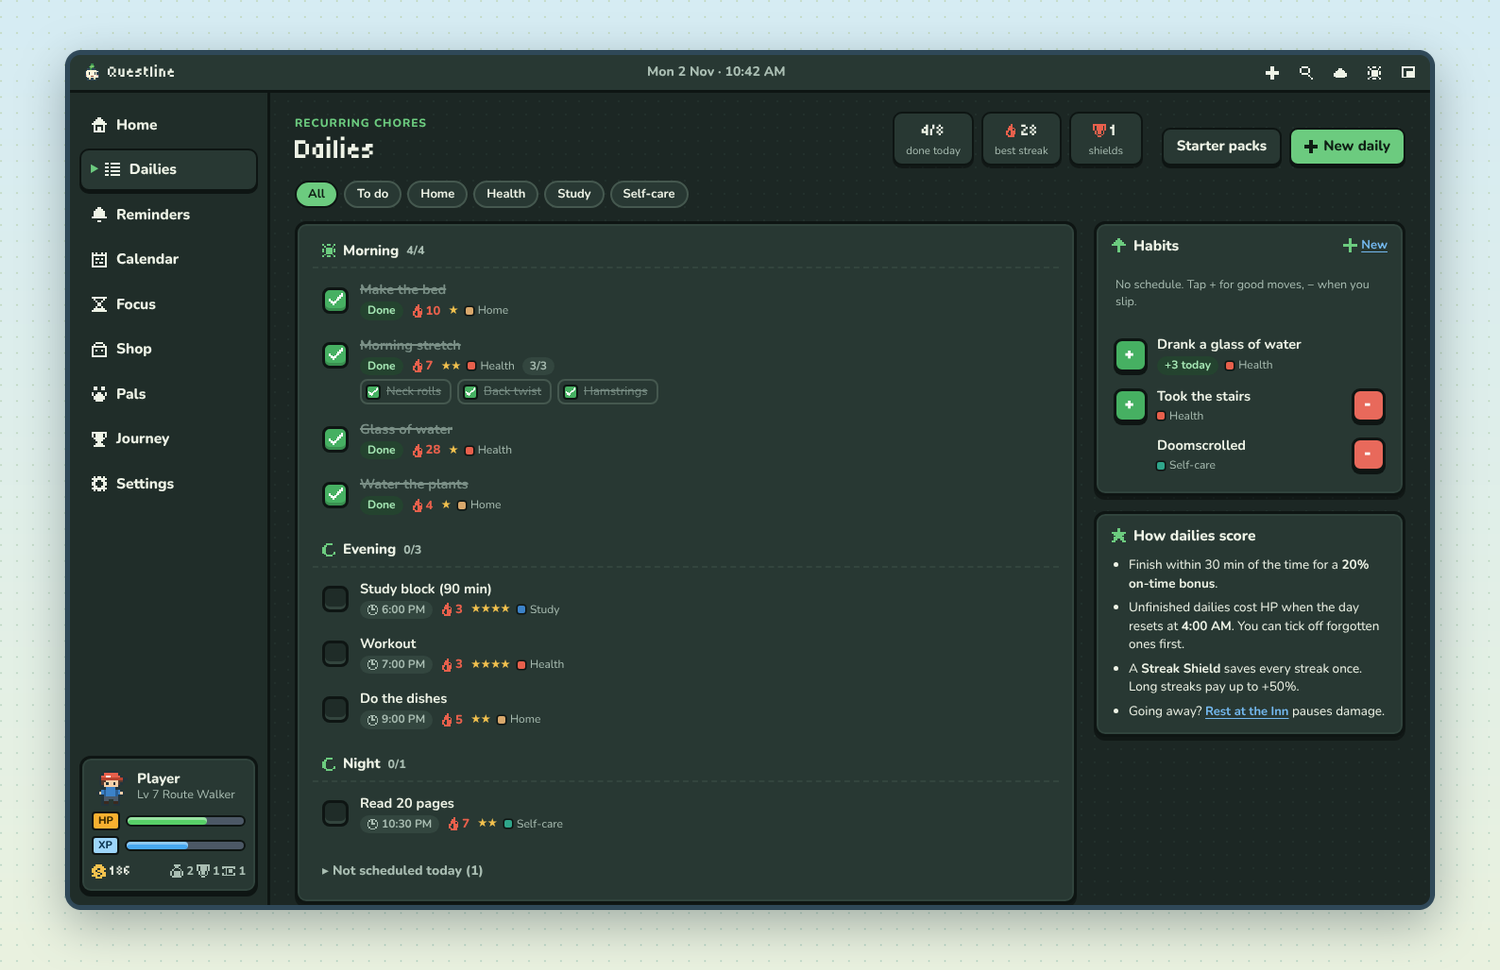
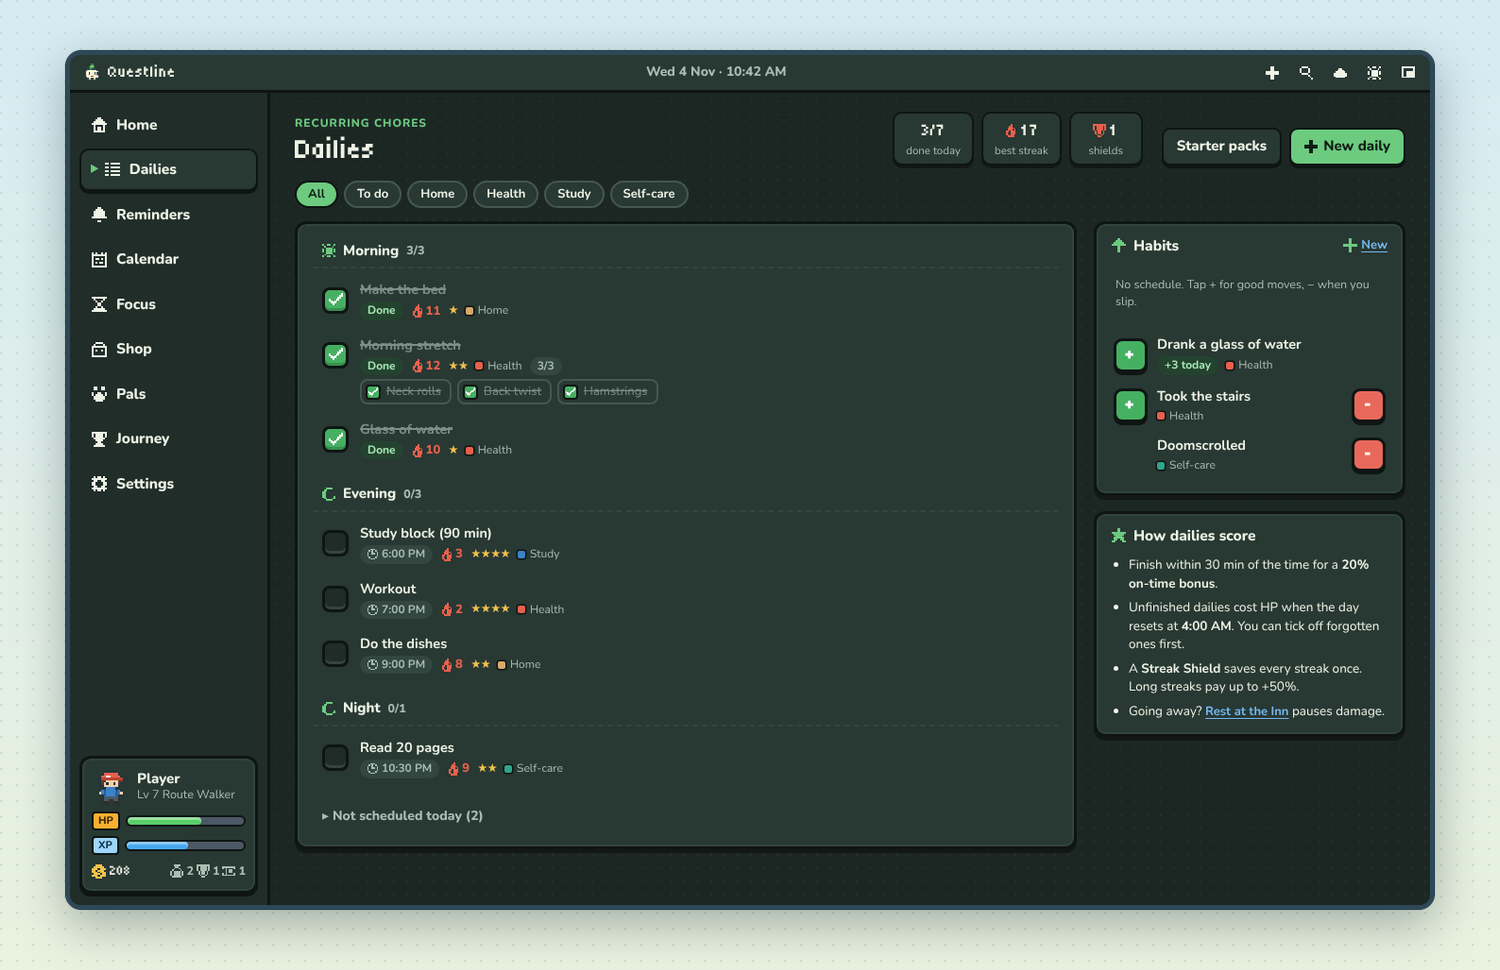
Refresh README and screenshots; fix phone update check
Fixes:
- Checking for updates on Android works again, and errors explain what went wrong
- If a phone can't download an update in the app, it offers to download it in the browser
- Weekly review bars line up when a daily has an Adjust button
- The activity grid on Journey fits on phone screens
- The expedition card on phones no longer squeezes its text

diff --git a/src/js/onboarding.js b/src/js/onboarding.js
@@ -180,7 +180,9 @@ Q.onboarding = (() => {
     st.stats = { str: 420, int: 690, end: 520, cha: 160, spi: 240 };
     st.inventory = { potion: 2, maxpotion: 0, shield: 1, charm: 1, ticket: 1 };
     st.owned = { skins: ['meadow', 'ember'], scenes: ['meadow', 'rain', 'night'], outfits: ['classic', 'meadow'] };
-    st.counters = { completions: 214, remindersDone: 23, focusSessions: 12, focusMinutes: 395, perfectDays: 6, bossesDefeated: 2, faints: 0, drops: 31, maxStreak: 19, earlyBird: 9, rewardsBought: 3 };
+    st.counters = { completions: 214, remindersDone: 23, focusSessions: 12, focusMinutes: 395, perfectDays: 6, bossesDefeated: 3, dailyBossesDefeated: 14, bountyBoards: 9, expeditions: 3, perfectWeeks: 1, faints: 0, drops: 31, maxStreak: 19, earlyBird: 9, rewardsBought: 3 };
+    st.upgrades = { satchel: 2, purse: 1, vitality: 1 };
+    st.expedition = { id: 'boolet', trip: 'mid', need: 50, progress: 32, start: Date.now() - 26 * 3600000 };
     st.settings.calShowReminders = true;
 
     const add = (it, streak, rate) => {
@@ -202,7 +204,8 @@ Q.onboarding = (() => {
         tot++;
         if (rand() < d._rate || n > -6) { d.done[ds] = { xp: 12, gold: 5, stat: 'end' }; dn++; d.streak++; d.best = Math.max(d.best, d.streak); } else d.streak = 0;
       }
-      st.dayLog[ds] = { d: dn, t: tot, f: rand() < 0.35 ? Math.round(25 + rand() * 60) : 0 };
+      const f = rand() < 0.45 ? Math.round(25 + rand() * 60) : 0;
+      st.dayLog[ds] = { d: dn, t: tot, f, fs: f ? 1 + Math.floor(f / 45) : 0, r: Math.floor(rand() * 3), x: dn * 13 + f, b: Math.min(3, Math.floor(rand() * 4)) };
     }
     // Today: the morning is done.
     const today = ymd(0);
@@ -226,10 +229,11 @@ Q.onboarding = (() => {
       R('Order a new notebook', at(0, '08:00'), { done: true, doneAt: Date.now() - 2 * 3600000 }),
     ];
     st.events = [
+      { id: U.uid(), title: 'Coffee with Sam', start: at(0, '16:30'), end: at(0, '17:15'), allDay: false, location: 'Bean Counter Café', notes: '', color: '#C9702E', repeat: 'none' },
       { id: U.uid(), title: 'Robotics club meetup', start: at(nextDow(4), '16:00'), end: at(nextDow(4), '17:30'), allDay: false, location: 'Lab 3', notes: '', color: '#2FA58A', repeat: 'none' },
       { id: U.uid(), title: 'Movie night', start: at(nextDow(6), '20:00'), end: at(nextDow(6), '22:30'), allDay: false, location: '', notes: '', color: '#E879A8', repeat: 'none' },
       { id: U.uid(), title: 'Dentist', start: at(10, '11:00'), end: at(10, '11:30'), allDay: false, location: '', notes: '', color: '#F29A4E', repeat: 'none' },
-      { id: U.uid(), title: 'Cousin\'s birthday', start: U.addDays(todayD, 13).getTime(), end: U.addDays(todayD, 14).getTime(), allDay: true, location: '', notes: '', color: '#8E6BD1', repeat: 'none' },
+      { id: U.uid(), title: 'Maya\'s birthday', start: U.addDays(todayD, 13).getTime(), end: U.addDays(todayD, 14).getTime(), allDay: true, location: '', notes: '', color: '#8E6BD1', repeat: 'none' },
     ];
     const g = [];
     for (let n = -14; n < 40; n++) {
@@ -249,11 +253,21 @@ Q.onboarding = (() => {
       { t: Date.now() - 3 * 3600000, text: 'Morning stretch', kind: 'daily', xp: 15, gold: 5 },
       { t: Date.now() - 3.2 * 3600000, text: 'Make the bed', kind: 'daily', xp: 7, gold: 2 },
       { t: Date.now() - 20 * 3600000, text: 'Focused for 50 min on Study block (90 min)', kind: 'focus', xp: 44, gold: 13 },
-      { t: Date.now() - 26 * 3600000, text: 'Defeated Snooze Slime! +80 gold and a Streak Shield', kind: 'boss' },
+      { t: Date.now() - 26 * 3600000, text: 'Beat today\'s foe, Wild Fluffle! +29 gold', kind: 'boss' },
+      { t: Date.now() - 4 * 86400000, text: 'Defeated Snooze Slime! +80 gold and a Streak Shield', kind: 'boss' },
+      { t: Date.now() - 18 * 86400000, text: 'Defeated Dust Bunny King! +70 gold, a Potion and a Capsule Ticket', kind: 'boss' },
+      { t: Date.now() - 25 * 86400000, text: 'Inbox Kraken slipped away at the end of the week.', kind: 'boss' },
+      { t: Date.now() - 32 * 86400000, text: 'Defeated Clutter Golem! +65 gold, a Potion and a Capsule Ticket', kind: 'boss' },
     ];
+    // Last week's review is already "seen", so the preview doesn't open on a dialog.
+    const wk = Q.quests.weekOf(today); const prevWk = U.ymd(U.addDays(U.parseYmd(wk), -7));
+    st.weekly = { seen: wk, checked: prevWk, perfect: [U.ymd(U.addDays(U.parseYmd(wk), -21))] };
+    st.lastBoss = { week: prevWk, id: 'snooze', name: 'Snooze Slime', defeated: true, hp: 0, maxHp: 410 };
+    Object.assign(st.achievements, { skirmish: st.createdAt + 86400000 * 5, bounty1: st.createdAt + 86400000 * 6, trip1: st.createdAt + 86400000 * 12, pweek: st.createdAt + 86400000 * 41 });
     Q.store.replace(st);
     const b = Q.game.ensureBoss();
     b.hp = Math.round(b.maxHp * 0.58);
+    Q.quests.check();
     Q.store.commit('demo');
   }
 

diff --git a/src/css/app.css b/src/css/app.css
@@ -709,7 +709,7 @@ kbd {
 .theme-group { padding: 8px 0 4px; border-bottom: 1px dashed var(--grid); }
 .theme-group .skin-row { margin: 6px 0 4px; }
 .toggle-row { display: flex; align-items: center; justify-content: space-between; gap: 12px; padding: 8px 0; border-bottom: 1px dashed var(--grid); }
-.toggle-row > span { display: flex; flex-direction: column; min-width: 0; }
+.toggle-row > span { display: flex; flex-direction: column; min-width: 0; overflow-wrap: anywhere; }
 .toggle-row b { font-weight: 700; }
 .switch { appearance: none; width: 44px; height: 24px; flex: none; border: 2px solid var(--line); border-radius: 999px; background: var(--track); position: relative; cursor: pointer; transition: background .15s; }
 .switch::after { content: ''; position: absolute; left: 2px; top: 2px; width: 16px; height: 16px; border-radius: 4px; background: var(--panel); border: 2px solid var(--line); box-sizing: border-box; transition: transform .15s; }
@@ -1090,7 +1090,8 @@ body.mini .shell { grid-template-columns: minmax(0, 1fr); }
 .wr-boss .good { color: var(--ok); font-weight: 800; }
 .wr-perfect { display: flex; align-items: center; gap: 6px; padding: 8px 12px; border-radius: 10px; background: var(--done-bg); color: var(--done-fg); font-weight: 800; }
 .wr-dailies { display: flex; flex-direction: column; gap: 6px; }
-.wr-d { display: grid; grid-template-columns: minmax(0, 1.2fr) minmax(60px, 1fr) 42px auto; gap: 8px; align-items: center; }
+.wr-d { display: grid; grid-template-columns: minmax(0, 1.2fr) minmax(60px, 1fr) 42px 74px; gap: 8px; align-items: center; min-height: 30px; }
+.wr-d .btn { justify-self: end; }
 .wr-dt { overflow: hidden; text-overflow: ellipsis; white-space: nowrap; font-weight: 700; font-size: 13.5px; }
 .wr-bar { height: 9px; border-radius: 5px; background: var(--track); border: 2px solid var(--line); overflow: hidden; }
 .wr-bar i { display: block; height: 100%; background: var(--ok); }
@@ -1140,6 +1141,7 @@ body.mini .shell { grid-template-columns: minmax(0, 1fr); }
 .reduced-motion .exp-sprite { animation: none; }
 .exp-info { min-width: 0; flex: 1; display: flex; flex-direction: column; gap: 6px; }
 .exp-away { display: inline-flex; align-items: center; gap: 5px; color: var(--accent); font-weight: 700; }
+@media (max-width: 560px) { .exp-live { flex-direction: column; align-items: stretch; gap: 6px; } .exp-walk { align-self: center; } }
 .bl-intro { margin: -4px 0 10px; }
 .bl-grid { display: grid; grid-template-columns: repeat(auto-fill, minmax(132px, 1fr)); gap: 10px; }
 .bl-card { display: flex; flex-direction: column; align-items: center; gap: 4px; padding: 10px 6px 9px; border: 2px solid var(--line-soft); border-radius: 12px; background: var(--panel-2); text-align: center; min-width: 0; }

diff --git a/src/js/updates.js b/src/js/updates.js
@@ -16,6 +16,7 @@ Q.updates = (() => {
   const S = () => Q.store.state;
   const I = (n) => Q.sprites.icon(n);
   const RELEASES_URL = 'https://github.com/Ishaan415/questline/releases';
+  const APK_URL = `${RELEASES_URL}/latest/download/Questline-android.apk`;
   let version = '';
   let available = null;
   let checking = false;
@@ -101,7 +102,7 @@ Q.updates = (() => {
       else if (manual && !available) Q.ui.toast(`You're on the latest version (v${version}).`, { kind: 'ok' });
     } catch (e) {
       lastError = String(e);
-      if (manual) Q.ui.toast(`Couldn't check for updates: ${lastError}`, { kind: 'error', timeout: 8000 });
+      if (manual) Q.ui.toast(`Couldn't check for updates: ${lastError}`, { kind: 'error', timeout: 10000, actions: P.isAndroid ? [{ label: 'Open release page', fn: () => P.openExternal(`${RELEASES_URL}/latest`) }] : [] });
     } finally {
       checking = false;
       rerender();
@@ -144,7 +145,11 @@ Q.updates = (() => {
       if (P.isAndroid && progressModal) { progressModal(); progressModal = null; }
     } catch (e) {
       if (progressModal) { progressModal(); progressModal = null; }
-      Q.ui.toast(String(e), { kind: 'error', timeout: 10000 });
+      const msg = String(e);
+      // Android: if the in-app download can't get through, the browser usually can.
+      if (P.isAndroid && !/install updates on the screen/.test(msg)) {
+        Q.ui.toast(`${msg}`, { kind: 'error', timeout: 0, actions: [{ label: 'Download in browser', fn: () => P.openExternal(APK_URL) }] });
+      } else Q.ui.toast(msg, { kind: 'error', timeout: 10000 });
     }
   }
 

diff --git a/docs/index.html b/docs/index.html
@@ -20,12 +20,16 @@
   <h2>What it does</h2>
   <ul>
     <li>Dailies, habits and reminders earn XP, gold and pal EXP; missing them costs a little HP.</li>
+    <li>A daily foe, a weekly boss and three daily bounties to aim for; pals to collect, evolve and send on expeditions while you focus.</li>
+    <li>A weekly review, a streak calendar and a perfect-week bonus.</li>
+    <li>An Android home-screen widget to tick off today's list without opening the app.</li>
     <li>A calendar page with your own events and, optionally, your Google Calendar.</li>
     <li>A full-screen focus mode with Pomodoro, timer and stopwatch.</li>
     <li>Optional <b>Sign in with Google</b> to sync between your devices and keep daily backups in your own Google Drive.</li>
   </ul>
 
   <img class="shot" src="screenshots/phones.png" alt="Questline on Android">
+  <img class="shot" src="screenshots/quests.png" alt="Bounties, a pal expedition and the streak calendar on Android">
 
   <h2>Your data</h2>
   <p>Questline has no servers. Everything is stored on your device and, if you sign in, in a <code>Questline</code> folder in your own Google Drive. Read the <a href="privacy.html">privacy policy</a>.</p>

diff --git a/src/js/views/journey.js b/src/js/views/journey.js
@@ -19,8 +19,10 @@ Q.views.journey = (() => {
     return st.dayLog[ds] || { d: 0, t: 0, f: 0 };
   }
 
+  // Phones show fewer weeks so the grid fits the screen.
+  const heatWeeks = () => (Q.platform.isPhone ? 10 : 20);
   function heatmap() {
-    const weeks = 20;
+    const weeks = heatWeeks();
     const today = U.parseYmd(G.today());
     const end = U.addDays(today, 6 - ((today.getDay() - S().settings.weekStart + 7) % 7));
     const start = U.addDays(end, -(weeks * 7 - 1));
@@ -221,7 +223,7 @@ Q.views.journey = (() => {
         ${reviewPanel()}
         ${streakCalendar()}
         <section class="panel wide">
-          <div class="panel-title">${I('calendar')} Last 20 weeks</div>
+          <div class="panel-title">${I('calendar')} Last ${heatWeeks()} weeks</div>
           ${heatmap()}
         </section>
         <section class="panel wide">

diff --git a/src-tauri/src/updater.rs b/src-tauri/src/updater.rs
@@ -7,10 +7,11 @@
 //! app, and runs the installer. On Windows the installer closes Questline,
 //! updates it and starts it again.
 //!
-//! Android: the same release carries `Questline-android.apk` and `android.json`.
-//! `update_install` downloads the APK into the app's cache folder and opens
-//! Android's installer. Android itself refuses an APK that isn't signed with the
-//! same key as the installed app.
+//! Android: `update_check` asks the GitHub API for the newest release (the same
+//! endpoint the "What's new" notes use) and looks for `Questline-android.apk`
+//! among its files. `update_install` downloads the APK into the app's cache
+//! folder and opens Android's installer. Android itself refuses an APK that
+//! isn't signed with the same key as the installed app.
 
 use serde::{Deserialize, Serialize};
 use std::sync::Mutex;
@@ -77,22 +78,37 @@ mod desktop {
 
 // ------------------------------------------------------------------ Android
 
-/// Published next to every release by the workflow.
+/// The phone build's file name in every release.
 #[cfg_attr(desktop, allow(dead_code))]
-const ANDROID_MANIFEST: &str = "https://github.com/Ishaan415/questline/releases/latest/download/android.json";
+const ANDROID_APK: &str = "Questline-android.apk";
 /// Only APKs from this repository's releases are downloaded.
 #[cfg_attr(desktop, allow(dead_code))]
 const RELEASE_PREFIX: &str = "https://github.com/Ishaan415/questline/releases/download/";
 
-#[derive(Deserialize, Clone)]
+#[derive(Clone)]
 #[cfg_attr(desktop, allow(dead_code))]
 struct AndroidRelease {
     version: String,
     url: String,
-    #[serde(default)]
     notes: Option<String>,
-    #[serde(default)]
     date: Option<String>,
+}
+
+/// "error sending request: client error (Connect): dns error: …": the whole
+/// chain of causes, so a failure says what actually went wrong.
+pub(crate) fn why(e: reqwest::Error) -> String {
+    let e = e.without_url();
+    let mut out = e.to_string();
+    let mut src = std::error::Error::source(&e);
+    while let Some(s) = src {
+        let t = s.to_string();
+        if !out.contains(&t) {
+            out.push_str(": ");
+            out.push_str(&t);
+        }
+        src = s.source();
+    }
+    out
 }
 
 #[cfg_attr(desktop, allow(dead_code))]
@@ -108,19 +124,19 @@ fn parse_version(v: &str) -> (u64, u64, u64) {
 #[cfg_attr(desktop, allow(dead_code))]
 async fn android_check(app: &AppHandle) -> Result<Option<UpdateInfo>, String> {
     let current = app.package_info().version.to_string();
-    let res = crate::google::http()
-        .get(ANDROID_MANIFEST)
-        .send()
-        .await
-        .map_err(|e| format!("Couldn't reach GitHub: {e}"))?;
-    if res.status().as_u16() == 404 {
-        // The newest release has no phone build (yet).
+    let Some(gh) = fetch_release(&format!("{RELEASES_API}/latest")).await? else {
         return Ok(None);
-    }
-    if !res.status().is_success() {
-        return Err(format!("GitHub returned {}", res.status()));
-    }
-    let rel: AndroidRelease = res.json().await.map_err(|e| e.to_string())?;
+    };
+    // The newest release has no phone build (yet): nothing to offer.
+    let Some(apk) = gh.assets.iter().find(|a| a.name == ANDROID_APK) else {
+        return Ok(None);
+    };
+    let rel = AndroidRelease {
+        version: gh.tag_name.trim_start_matches('v').to_string(),
+        url: apk.browser_download_url.clone(),
+        notes: gh.body.clone(),
+        date: gh.published_at.clone(),
+    };
     let newer = parse_version(&rel.version) > parse_version(&current) && rel.url.starts_with(RELEASE_PREFIX);
     let info = newer.then(|| UpdateInfo {
         version: rel.version.clone(),
@@ -155,14 +171,14 @@ async fn android_install(app: &AppHandle) -> Result<(), String> {
         .timeout(std::time::Duration::from_secs(15 * 60))
         .send()
         .await
-        .map_err(|e| format!("Download failed: {e}"))?;
+        .map_err(|e| format!("Download failed: {}", why(e)))?;
     if !res.status().is_success() {
         return Err(format!("Download failed: GitHub returned {}", res.status()));
     }
     let total = res.content_length();
     let mut file = tokio::fs::File::create(&path).await.map_err(|e| e.to_string())?;
     let mut downloaded: u64 = 0;
-    while let Some(chunk) = res.chunk().await.map_err(|e| format!("Download failed: {e}"))? {
+    while let Some(chunk) = res.chunk().await.map_err(|e| format!("Download failed: {}", why(e)))? {
         file.write_all(&chunk).await.map_err(|e| e.to_string())?;
         downloaded += chunk.len() as u64;
         let _ = app.emit("update-progress", Progress { downloaded, total });
@@ -185,6 +201,12 @@ pub struct ReleaseNotes {
 }
 
 #[derive(Deserialize)]
+struct GhAsset {
+    name: String,
+    browser_download_url: String,
+}
+
+#[derive(Deserialize)]
 struct GhRelease {
     tag_name: String,
     #[serde(default)]
@@ -193,6 +215,8 @@ struct GhRelease {
     published_at: Option<String>,
     #[serde(default)]
     html_url: Option<String>,
+    #[serde(default)]
+    assets: Vec<GhAsset>,
 }
 
 async fn fetch_release(url: &str) -> Result<Option<GhRelease>, String> {
@@ -201,9 +225,12 @@ async fn fetch_release(url: &str) -> Result<Option<GhRelease>, String> {
         .header("Accept", "application/vnd.github+json")
         .send()
         .await
-        .map_err(|e| format!("Couldn't reach GitHub: {e}"))?;
+        .map_err(|e| format!("Couldn't reach GitHub: {}", why(e)))?;
     if res.status().as_u16() == 404 {
         return Ok(None);
+    }
+    if res.status().as_u16() == 403 || res.status().as_u16() == 429 {
+        return Err("GitHub is limiting checks from this network right now. Try again in an hour.".into());
     }
     if !res.status().is_success() {
         return Err(format!("GitHub returned {}", res.status()));

diff --git a/README.md b/README.md
@@ -7,7 +7,7 @@
 ### Your to-do list, as a cozy pixel RPG.
 
 Dailies, reminders, a calendar and a focus timer, where getting things done levels you up,<br>
-grows a team of pixel pals and knocks down a daily foe and a weekly boss. For **Windows** and **Android**.
+grows a team of pixel pals, clears daily bounties and knocks down a daily foe and a weekly boss. For **Windows** and **Android**.
 
 [![Download for Windows](https://img.shields.io/badge/Download-Windows-2F4858?style=for-the-badge)](https://github.com/Ishaan415/questline/releases/latest)
 [![Download for Android](https://img.shields.io/badge/Download-Android-3E9E5A?style=for-the-badge)](https://github.com/Ishaan415/questline/releases/latest/download/Questline-android.apk)
@@ -15,7 +15,7 @@ grows a team of pixel pals and knocks down a daily foe and a weekly boss. For **
 [![Latest release](https://img.shields.io/github/v/release/Ishaan415/questline?style=flat-square&label=latest&color=3E9E5A)](https://github.com/Ishaan415/questline/releases)
 [![Homepage](https://img.shields.io/badge/homepage-ishaan415.github.io%2Fquestline-3C82C8?style=flat-square)](https://ishaan415.github.io/questline/)
 
-<img src="docs/screenshots/hero.png" alt="Questline on a PC and a phone: today's timeline, your trainer, your pal and the weekly boss" width="100%">
+<img src="docs/screenshots/hero.png" alt="Questline on a PC and a phone: today's timeline, your trainer, your pal, today's bounties and bosses" width="100%">
 
 </div>
 
@@ -37,8 +37,10 @@ server in between.
 | **1. Add your day** | Type it the way you'd say it: `gym mon wed fri 7pm`, `dentist fri 3pm`, `pay rent tomorrow !h`. Questline works out the date, time and repeat. |
 | **2. Get it done** | Tick things off for XP, gold and loot. Doing a task within 30 minutes of its time pays an on-time bonus; streaks pay more. |
 | **3. Grow your team** | Your three pals share every bit of EXP you earn and evolve as they level up. Win new ones from the Capsule Machine: 50 to collect, three of them legendary. |
-| **4. Beat the bosses** | Every completed task hits both today's foe (a wild pal that's beaten with about a day's work) and this week's boss (which takes the whole week); missed dailies heal the boss. Beat them for gold, XP, items and capsule tickets. |
-| **5. Go easy on yourself** | Sick or travelling? Rest at the Inn and nothing hurts. Weekends can be rest days. Forgot to tick something yesterday? Record it before the day settles. |
+| **4. Chase bounties** | Three small goals every day ("finish 2 dailies before noon", "focus for 50 minutes"). Each pays gold; clear all three for a Capsule Ticket. Pals waiting in storage can go on expeditions while you focus and come back with loot. |
+| **5. Beat the bosses** | Every completed task hits both today's foe (a wild pal that's beaten with about a day's work) and this week's boss (which takes the whole week); missed dailies heal the boss. Beat them for gold, XP, items and capsule tickets. |
+| **6. Look back** | Each new week opens with a short review: how much you got done, your best and toughest day, focus time, the boss result and which dailies keep slipping. A streak calendar shows every perfect day. |
+| **7. Go easy on yourself** | Sick or travelling? Rest at the Inn and nothing hurts. Weekends can be rest days. Forgot to tick something yesterday? Record it before the day settles. |
 
 ## On your phone
 
@@ -51,20 +53,25 @@ opens Quick add.
 
 <img src="docs/screenshots/phones.png" alt="Questline on Android: dailies, quick add, the More menu and dark mode" width="100%">
 
+<img src="docs/screenshots/quests.png" alt="On Android: today's bounties, a pal on an expedition, and the streak calendar" width="100%">
+
 ## A look around
 
 <table>
   <tr>
-    <td width="50%"><img src="docs/screenshots/pals.png" alt="Pals page"><br><b>Pals</b>: your team of three, presets, the Capsule Machine and the Paldex.</td>
+    <td width="50%"><img src="docs/screenshots/pals.png" alt="Pals page"><br><b>Pals</b>: your team of three, presets, the Capsule Machine, expeditions, the boss log and the Paldex.</td>
     <td width="50%"><img src="docs/screenshots/calendar.png" alt="Calendar page"><br><b>Calendar</b>: month, week and agenda views, with your Google Calendar if you like.</td>
   </tr>
   <tr>
-    <td width="50%"><img src="docs/screenshots/focus.png" alt="Focus mode"><br><b>Focus mode</b>: Pomodoro, timer or stopwatch over a slow pixel scene. Sessions earn XP.</td>
-    <td width="50%"><img src="docs/screenshots/journey.png" alt="Journey page"><br><b>Journey</b>: trainer card, badges, stats with perks, your streak heatmap and achievements.</td>
+    <td width="50%"><img src="docs/screenshots/focus.png" alt="Focus mode"><br><b>Focus mode</b>: Pomodoro, timer or stopwatch over one of nine animated pixel scenes (here, Aurora Peak). Sessions earn XP and move pal expeditions along.</td>
+    <td width="50%"><img src="docs/screenshots/journey.png" alt="Journey page"><br><b>Journey</b>: last week at a glance, a streak calendar, stats with perks, badges and achievements.</td>
   </tr>
   <tr>
-    <td width="50%"><img src="docs/screenshots/shop.png" alt="Shop: themes, outfits and focus scenes"><br><b>Shop</b>: spend gold on your own real-life rewards, items, permanent upgrades, town themes, outfits and focus scenes.</td>
+    <td width="50%"><img src="docs/screenshots/shop.png" alt="Shop: permanent upgrades"><br><b>Shop</b>: spend gold on your own real-life rewards, items, permanent upgrades, 16 town themes, outfits and focus scenes.</td>
     <td width="50%"><img src="docs/screenshots/dark-mode.png" alt="Dailies in dark mode"><br><b>Dark mode</b>: every theme has a light and a dark version, and you can try any of them before buying.</td>
+  </tr>
+  <tr>
+    <td colspan="2"><img src="docs/screenshots/review.png" alt="Weekly review dialog"><br><b>Weekly review</b>: opens on the first day of each week, with a bar for every daily and an <i>Adjust</i> button for the ones that keep slipping.</td>
   </tr>
 </table>
 
